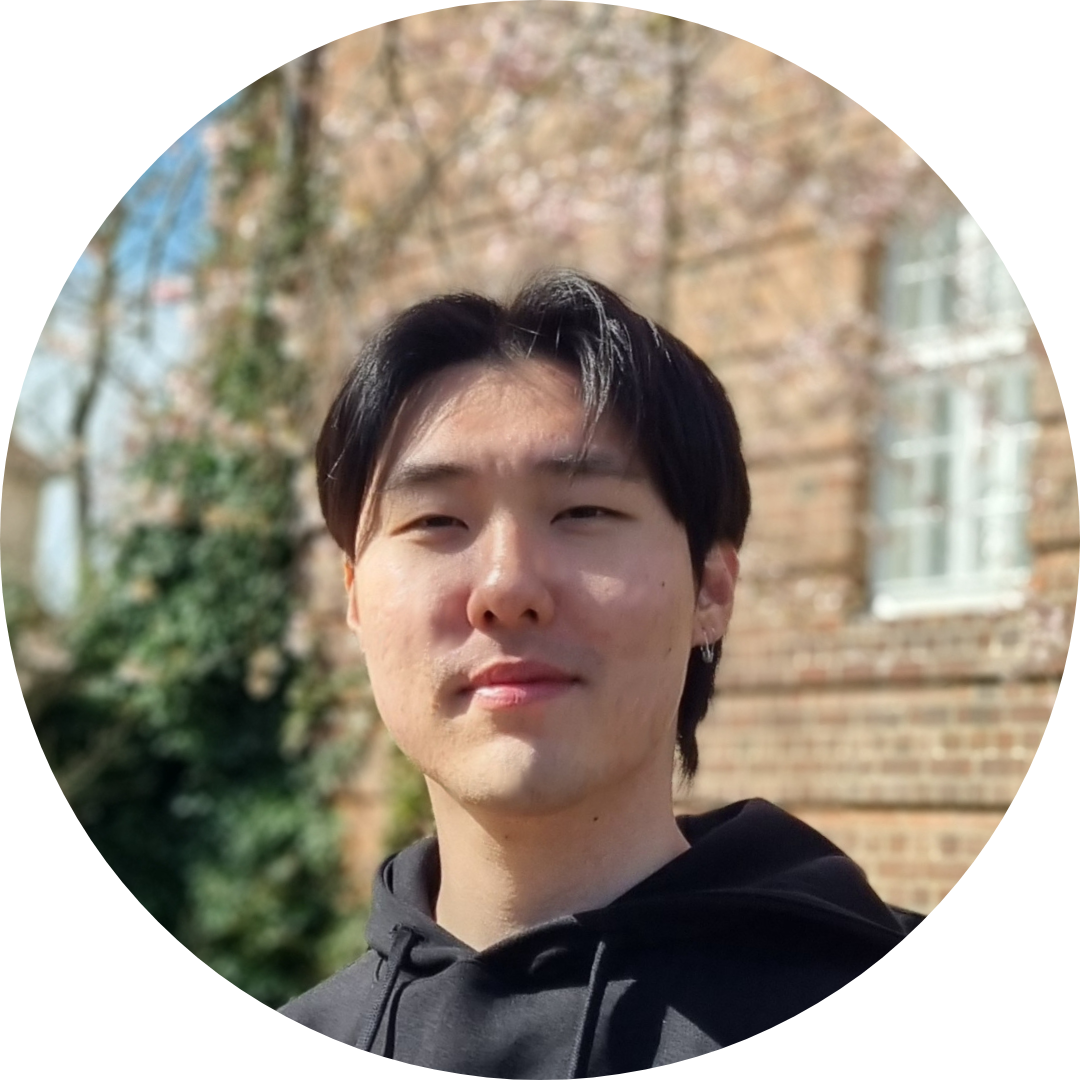
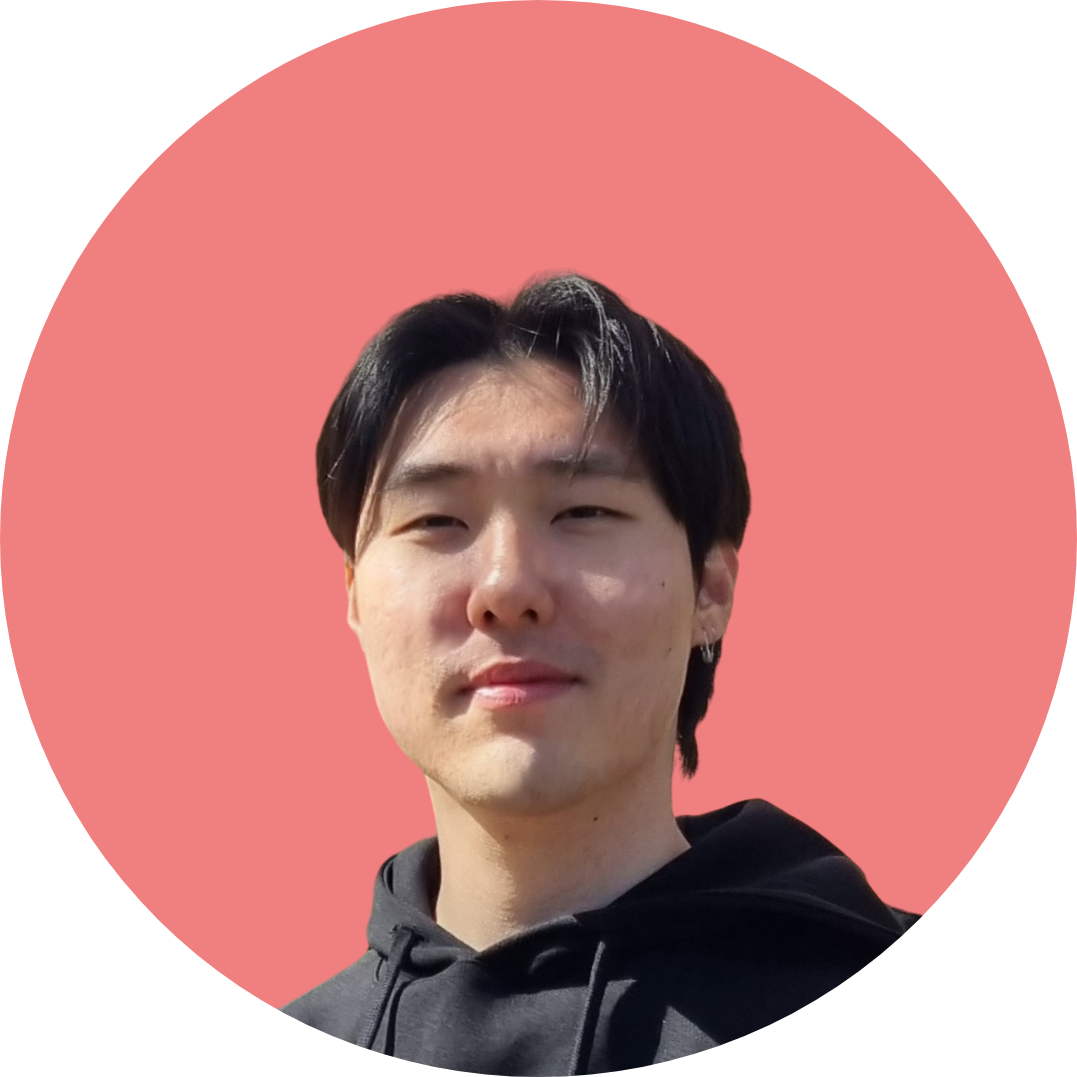
edited photo in, changed some styling on css

diff --git a/style.css b/style.css
@@ -1,19 +1,22 @@
 /* General */
 
-@import url('https://fonts.googleapis.com/css2?family=Poppins:wght@300;400;500;600&display=swap');
-
+/*@import url('https://fonts.googleapis.com/css2?family=Poppins:wght@300;400;500;600&display=swap'); */
+@import url('https://fonts.googleapis.com/css2?family=Nunito+Sans:ital,opsz,wght@0,6..12,200..1000;1,6..12,200..1000&display=swap');
 * {
     margin: 0;
     padding: 0; 
 }
 
 body {
-    font-family: "Poppins", sans-serif;   
+    /* font-family: "Poppins", sans-serif; */
+    font-family: "Nunito Sans", sans-serif;
+    font-style: italic;
 }
+
 
 .absolute {
     position: absolute;
-    top: 50px;
+    top: 500px;
     inset: 0;
     justify-content: center;
     display: inline-flex;
@@ -128,6 +131,8 @@ a:hover {
 
 .logo {
     font-size: 2rem;
+    font-weight: 600;
+
 }
 
 .logo:hover {
@@ -238,11 +243,38 @@ section {
     height: 80vh;
 }
 
+.section__pic-container1 {
+    display: flex;
+    height: 400px;
+    width: 400px;
+    margin: auto 0;
+    border: 0.25rem solid rgb(255 255 255 /15%);
+    border-radius: 50%;
+    overflow: hidden;
+}
 .section__pic-container {
     display: flex;
     height: 400px;
     width: 400px;
     margin: auto 0;
+}
+
+.section__pic-container1 > img{
+    height: 100%;
+    width: 100%;
+    object-fit: cover;
+}
+
+.section__pic-container1:hover > img{
+    animation: pulse 800ms ease-in-out;
+}
+@keyframes pulse {
+    from, to {
+        scale: 1;
+    }
+    50% {
+        scale: 1.08;
+    }
 }
 
 .section__text {

diff --git a/index.html b/index.html
@@ -43,7 +43,7 @@
         </div>
     </nav>
     <section id="profile">
-        <div class="section__pic-container">
+        <div class="section__pic-container1">
             <img src="./assets/profile-pic.png" alt="John Doe Profile Picture">
         </div>
         <div class="section__text">
